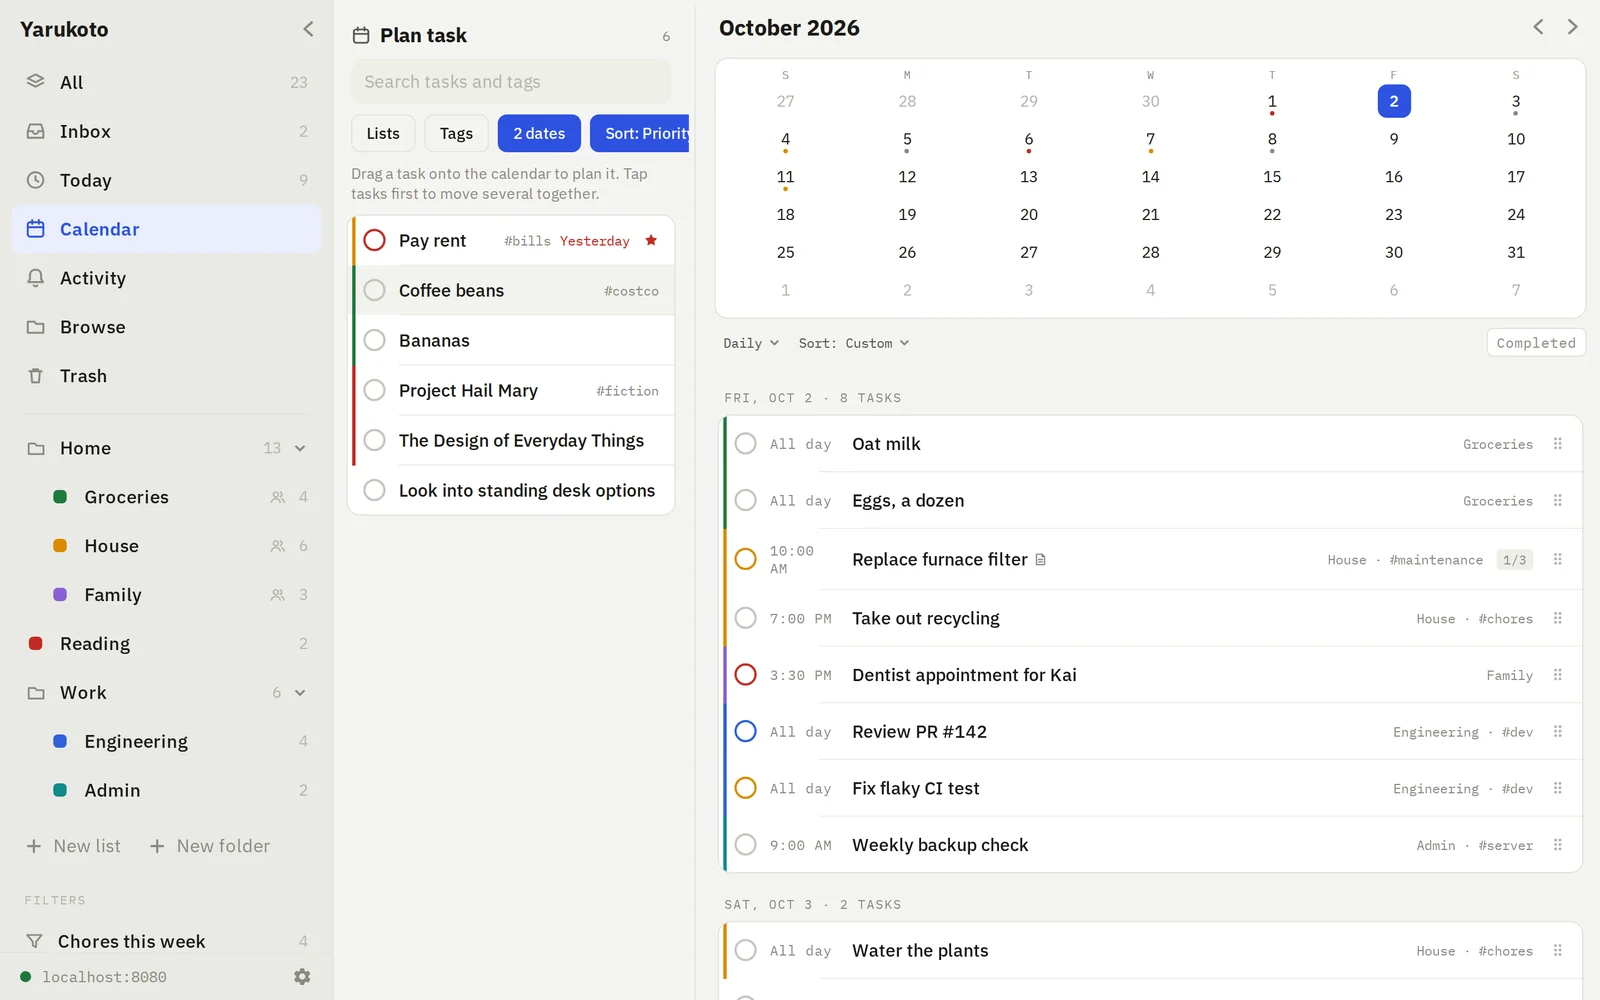
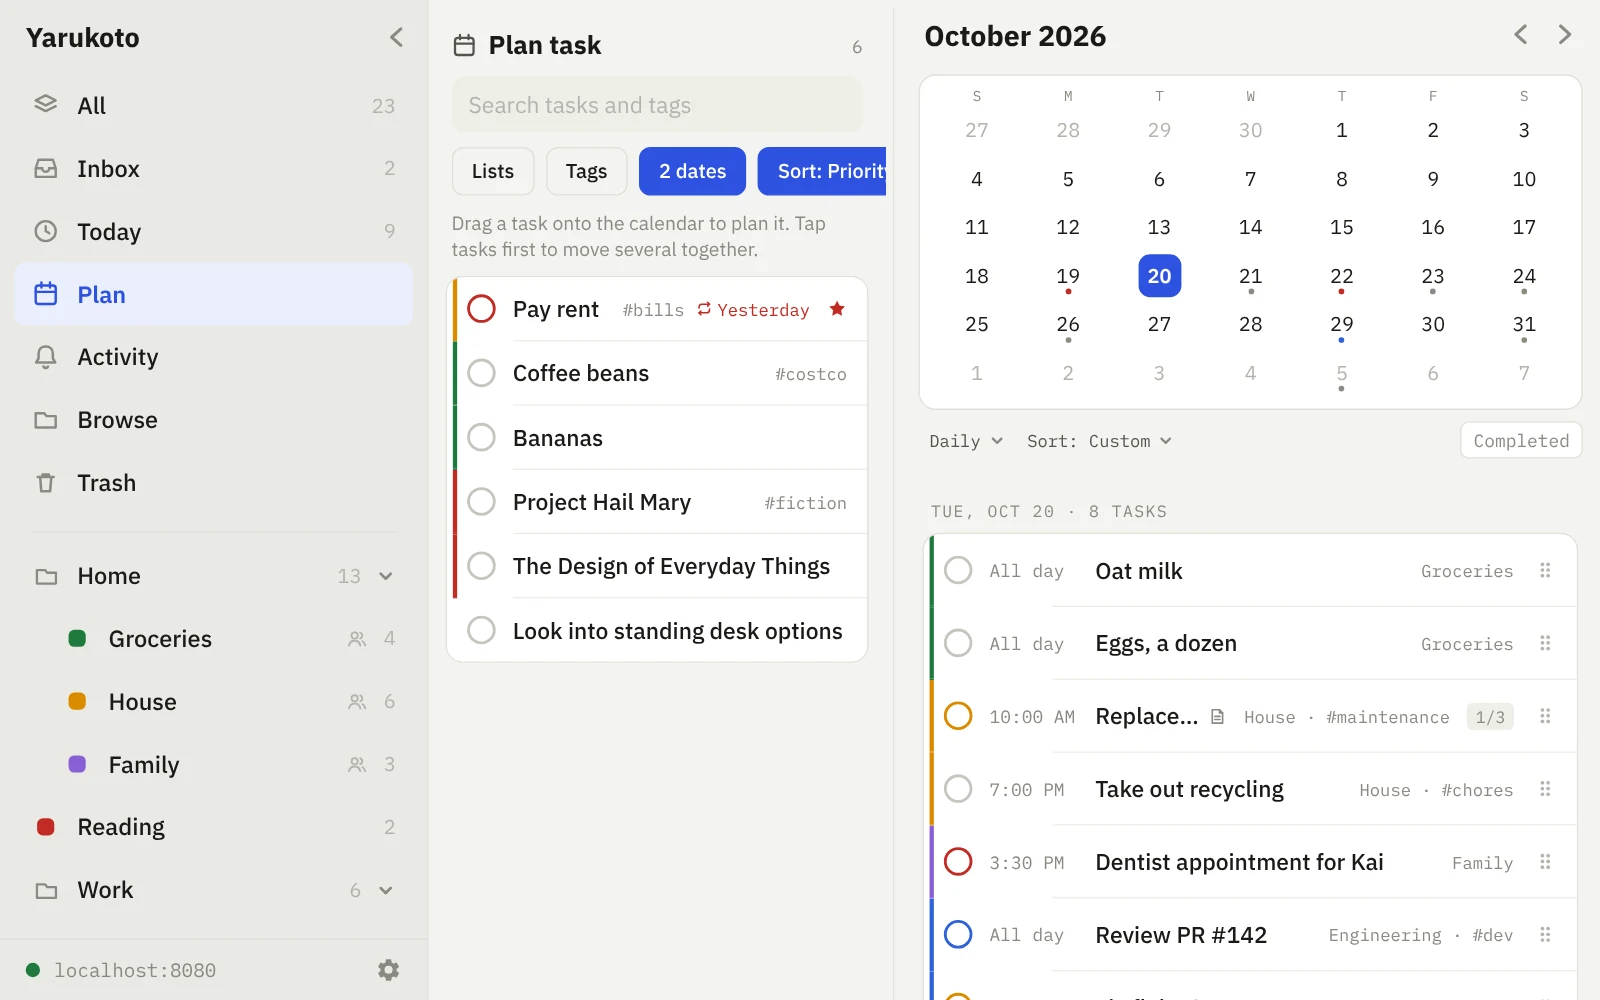
fix: retake the web screenshots with the Plan tab and tinted quick-add tokens

diff --git a/index.html b/index.html
@@ -275,12 +275,12 @@
   <section id="quickadd" class="section shell">
     <div class="split split-shot-left">
       <div class="framed framed-shadow">
-        <img src="assets/web-quick-add.webp" width="1440" height="600" alt="The add field with 'pay water bill fri 10am #bills !high ~house' typed in, and chips showing the parsed date, tag, list and priority" loading="lazy" />
+        <img src="assets/web-quick-add.webp" width="1440" height="600" alt="The add field with 'pay water bill ~house fri 10am #bills !high' typed in: each token is tinted where it was typed, a suggestion offers !high to complete with Tab, and chips below show the parsed date and the House list" loading="lazy" />
       </div>
       <div>
         <h2>Add tasks in one line</h2>
         <div class="syntax-sample">pay rent <span class="tok-date">fri 6pm</span> <span class="tok-meta">#home</span> <span class="tok-prio">!high</span> <span class="tok-meta">~admin</span></div>
-        <p class="body-copy" style="margin:0">The due date and time, the <code>#tag</code>, the <code>!priority</code> and the <code>~list</code> come out of one line. Anything unrecognized stays as the title, and the chips show you what was understood before you commit.</p>
+        <p class="body-copy" style="margin:0">The due date and time, the <code>#tag</code>, the <code>!priority</code> and the <code>~list</code> come out of one line. Each one is tinted where you type it, so you can see what was understood before you commit, and anything unrecognized stays as the title. Tab completes the list, tag or priority being typed.</p>
         <ul class="ticks">
           <li>Repeats in the same line: <code>every mon, wed</code>, <code>every 2 weeks</code>, or <code>every! 3 days</code> to count from when it's done.</li>
           <li>Subtasks, Markdown notes, tags, priorities, due dates and times.</li>
